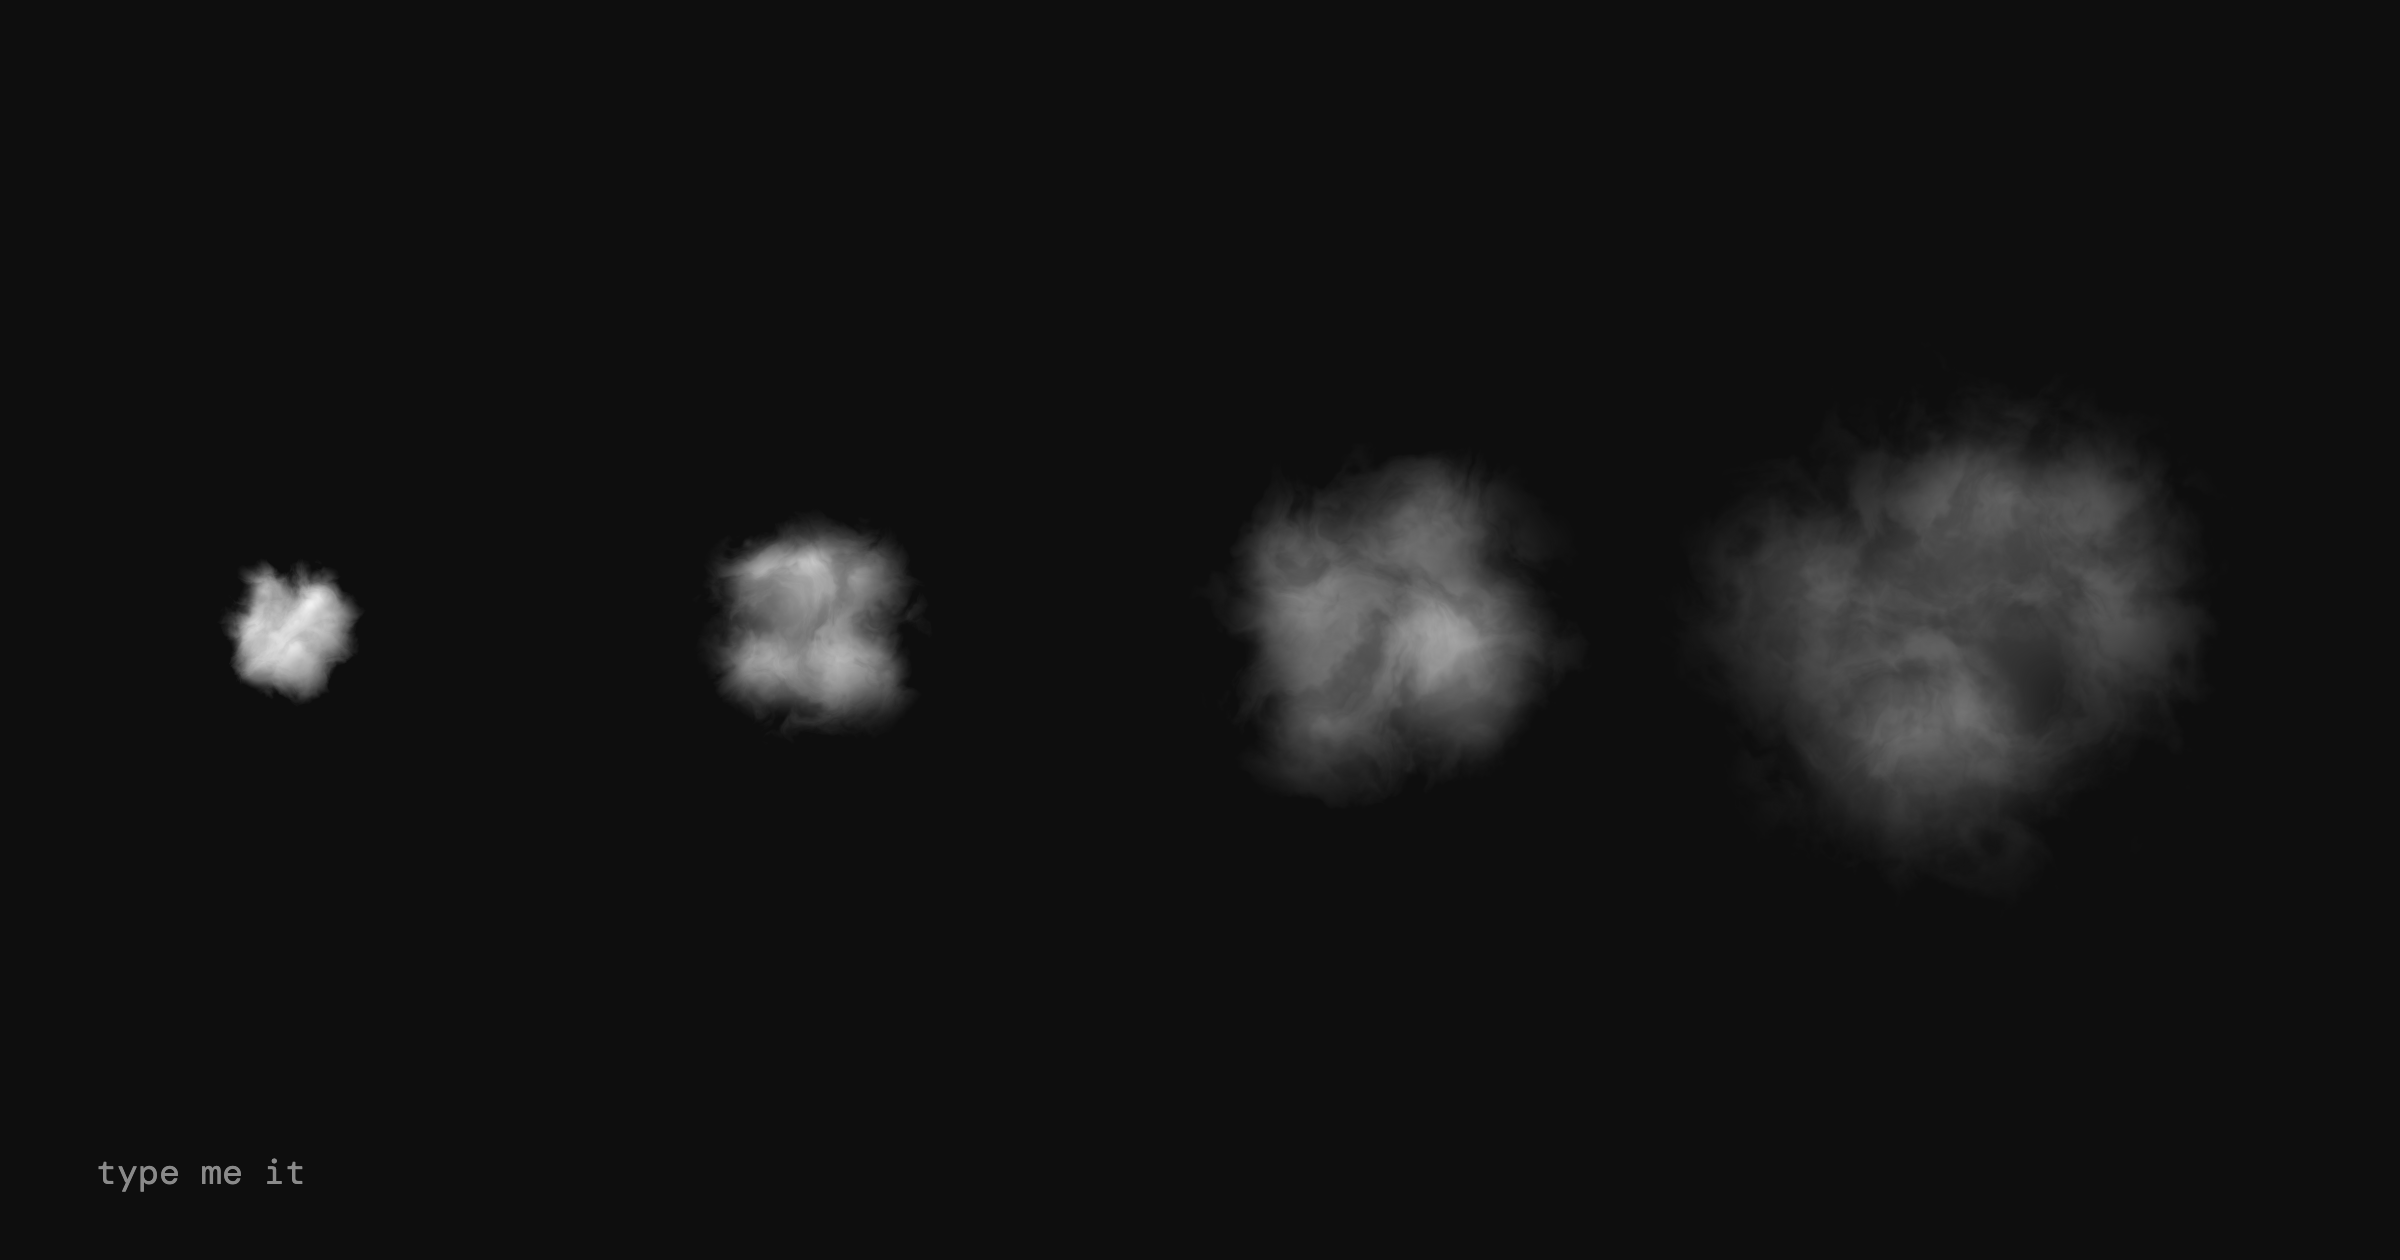
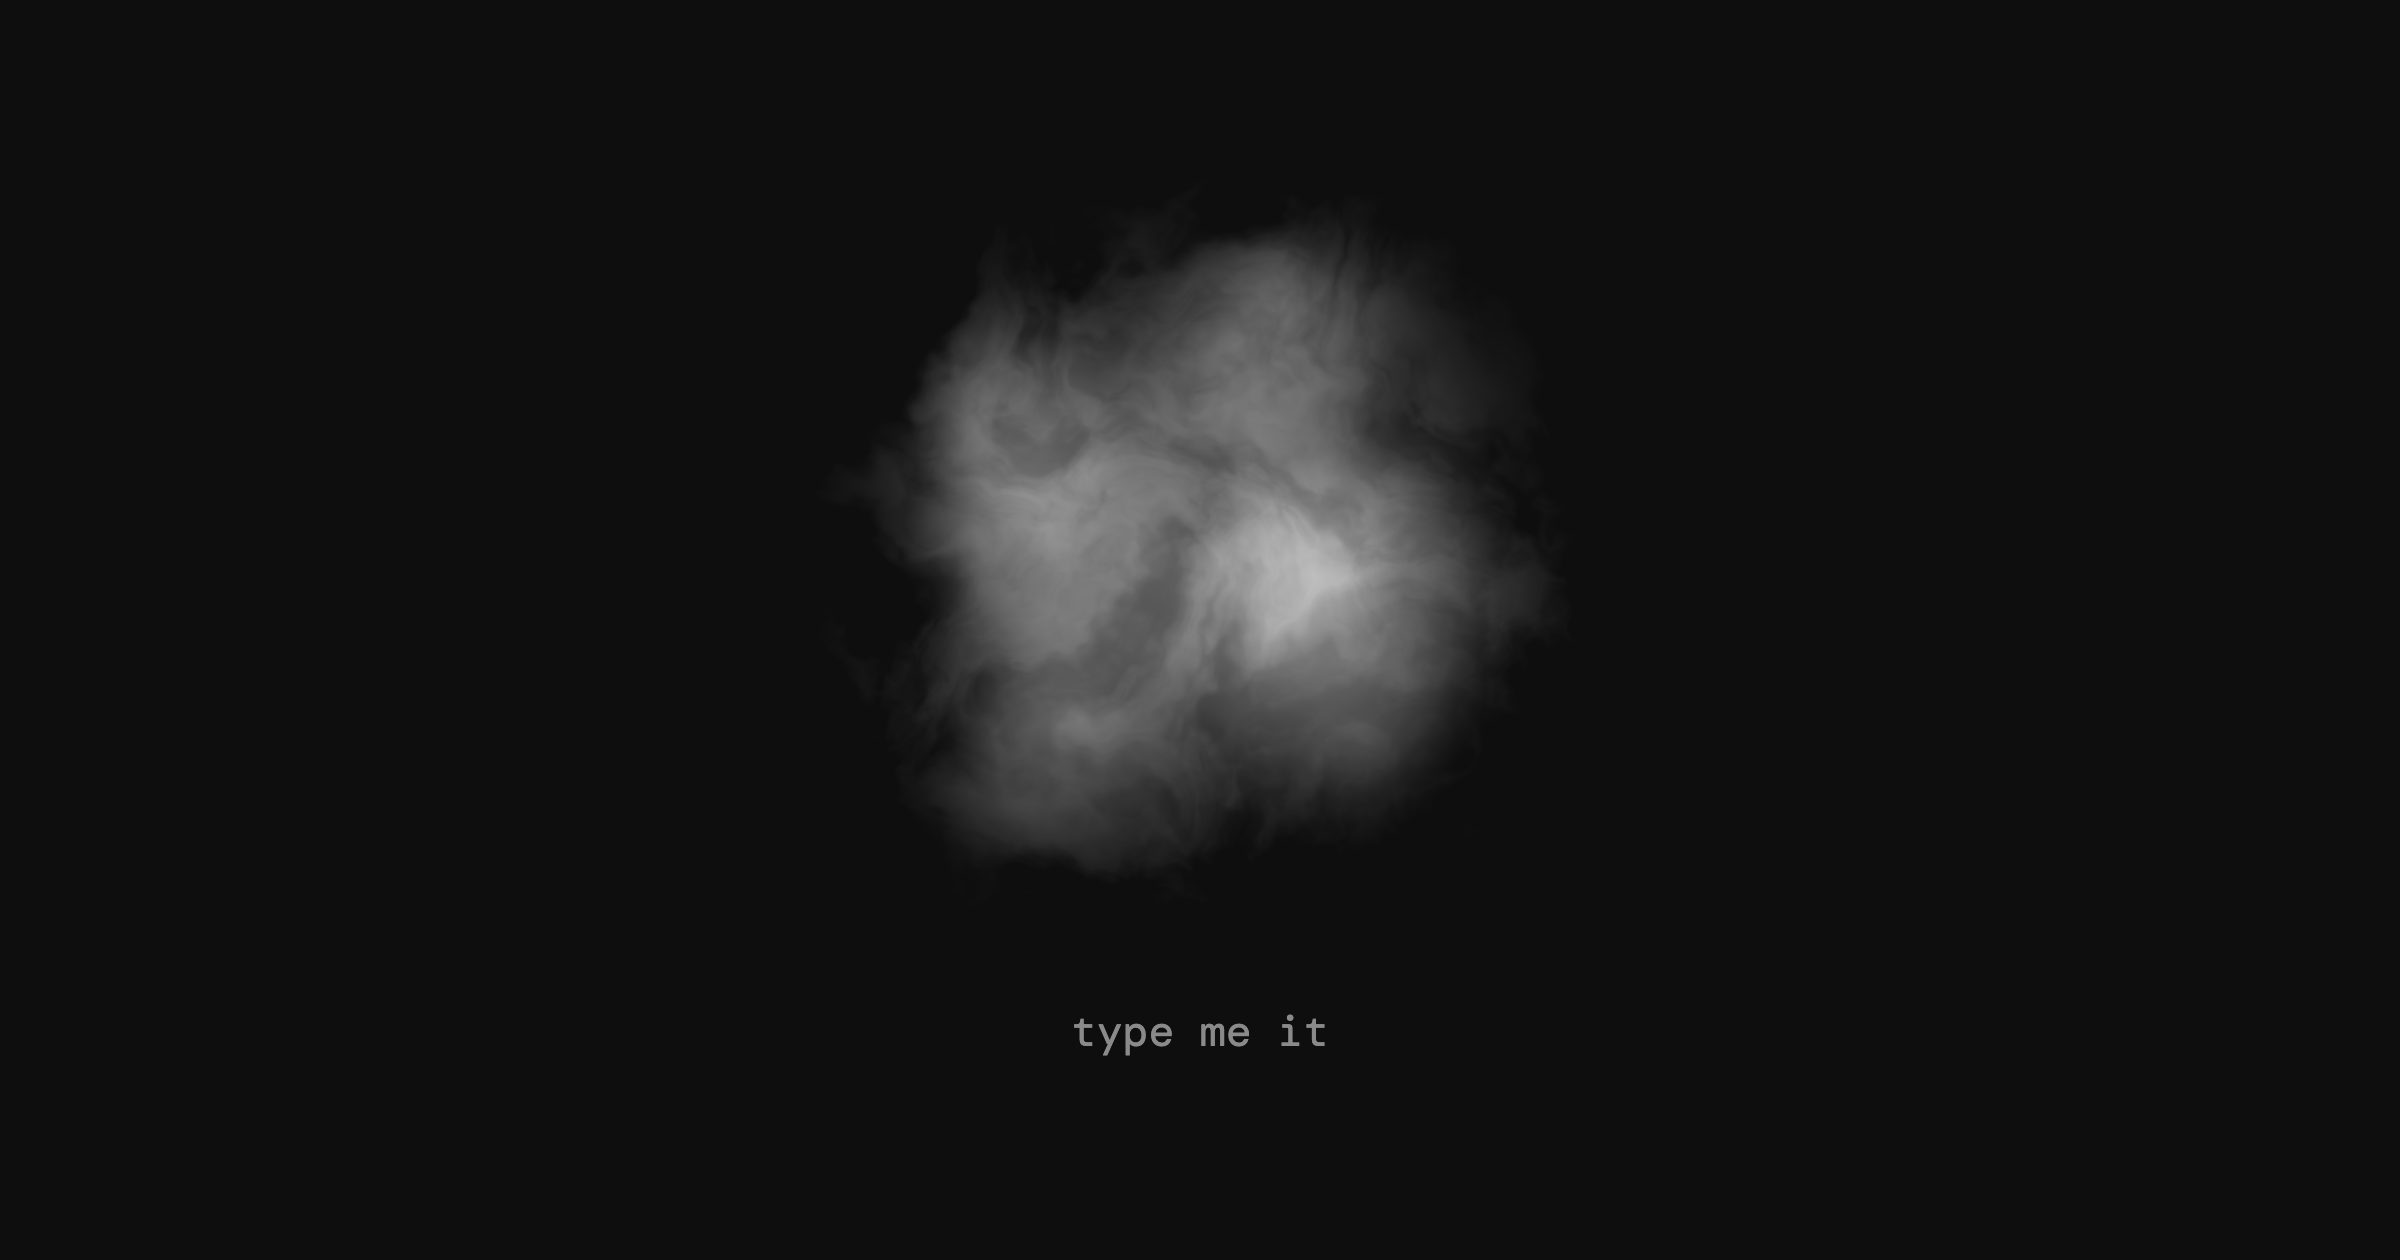
The link preview is one cloud on the centre line, so square crops keep it
The small Twitter card, WhatsApp and iMessage crop the image to its centre
square, which sliced the growing sequence into two stray clouds. One
expanded puff in the middle with the wordmark beneath it survives both
shapes.

diff --git a/Scripts/og/render.html b/Scripts/og/render.html
@@ -55,10 +55,11 @@ document.fonts.load(`${Math.round(H*0.028)}px "DM Mono"`).then(() => document.fo
   cx.fillStyle = '#0e0e0e'; cx.fillRect(0, 0, W, H);
   cx.drawImage(glc, 0, 0);
   if (TEXT) {
-    const px = Math.round(H * 0.028);
+    const px = Math.round(H * 0.034);
     cx.font = `${px}px "DM Mono", ui-monospace, Menlo, monospace`;
-    cx.fillStyle = '#8a8a8a'; cx.textBaseline = 'alphabetic';
-    cx.fillText(TEXT, Math.round(W * 0.04), Math.round(H * 0.94));
+    cx.fillStyle = '#8a8a8a'; cx.textBaseline = 'alphabetic'; cx.textAlign = 'center';
+    // Under the cloud, on the centre line, so a square crop keeps it.
+    cx.fillText(TEXT, Math.round(W / 2), Math.round(H * num('ty', 0.86)));
   }
   out.toBlob(b => b.arrayBuffer().then(a => fetch('/save?name=' + (P.get('name') || 'og') + '.png', {method: 'POST', body: a})
     .then(r => r.text()).then(t => { document.getElementById('status').textContent = 'SAVED ' + t; document.title = 'SAVED'; })), 'image/png');
